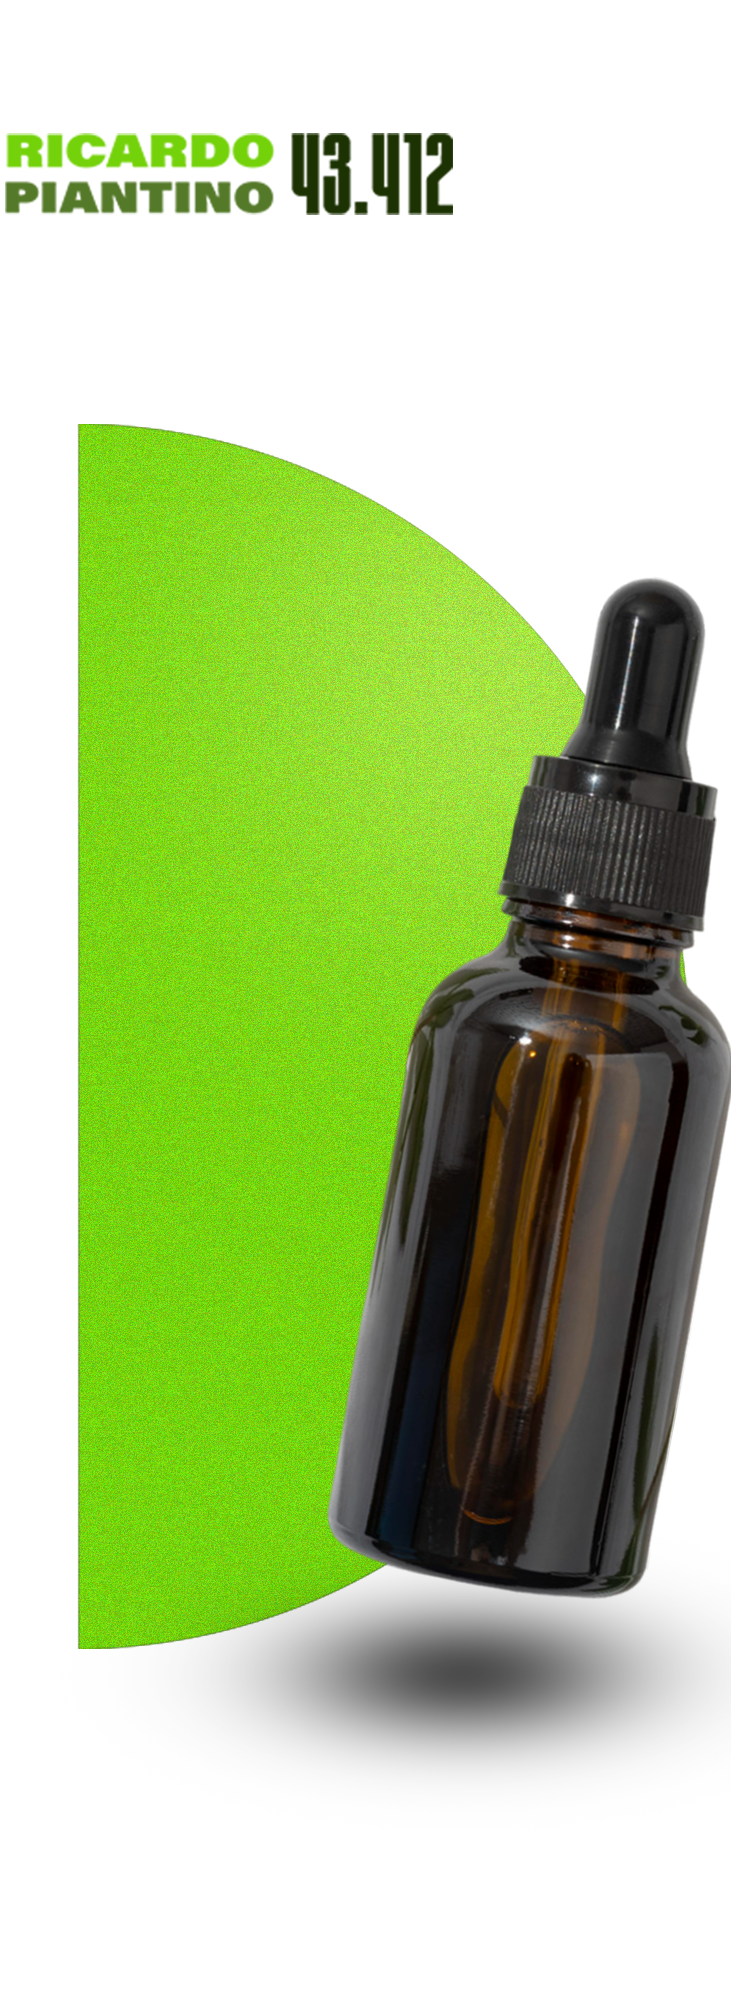
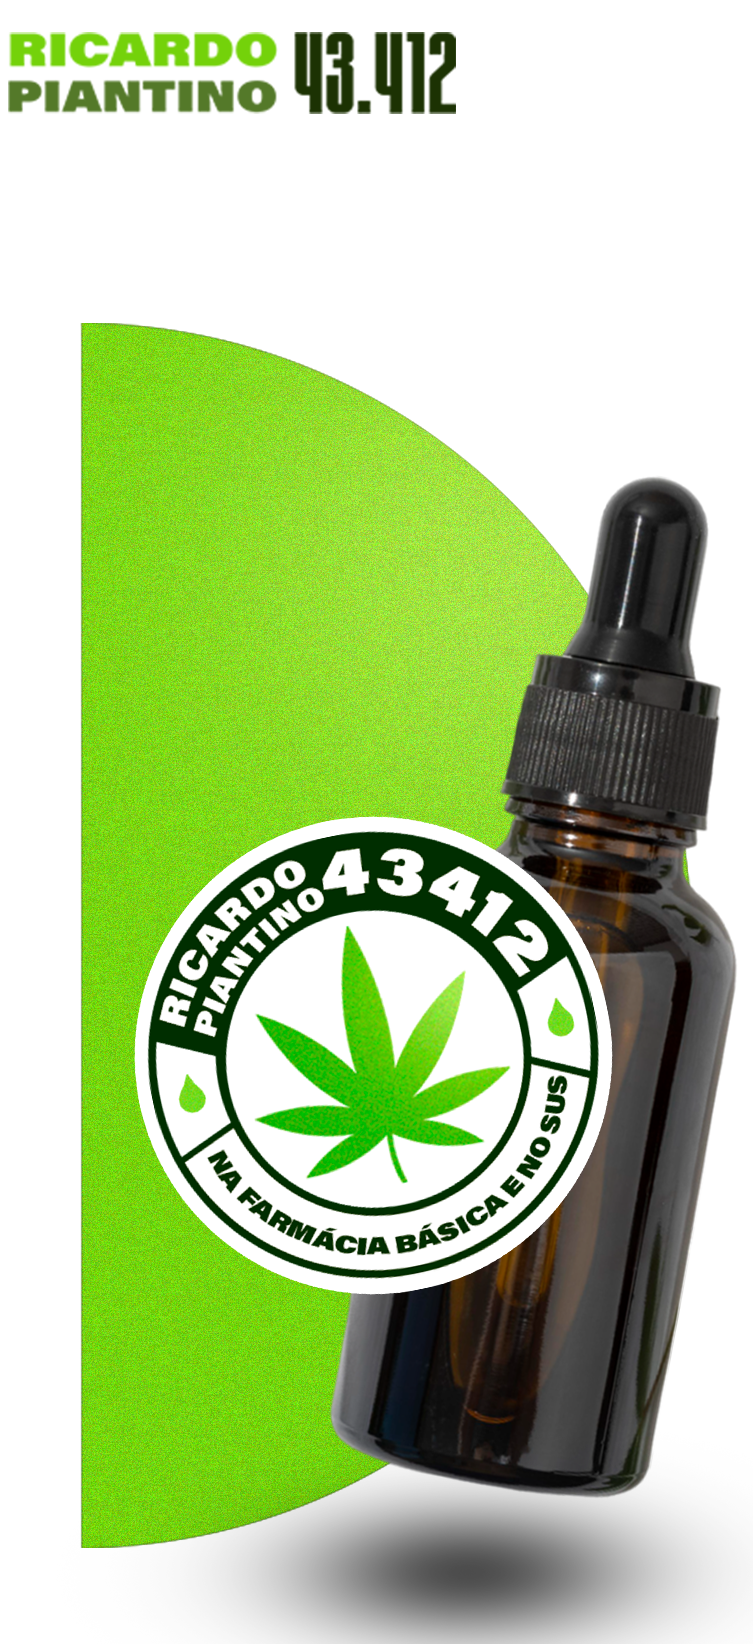
Mudando as imagens de cabeçalho

diff --git a/sites/Politicapage/index.html b/sites/Politicapage/index.html
@@ -47,10 +47,10 @@
                 <img src="./img/card01.png" alt="Foto de igreja">
                 <div class="items">
                     <div class="item">
-                        <p><strong>Todos sabem que formentei a Conferência Municipal de Cultura e que acompanhei, com atenção, o processo de impantação das Leis Aldir Blanc e Paulo Gustavo</strong></p>
+                        <p><strong>Todos sabem que fomentei a Conferência Municipal de Cultura e que acompanhei, com atenção, o processo de implantação das Leis Aldir Blanc e Paulo Gustavo</strong></p>
                     </div>
                     <div class="item">
-                        <p>Da confêrencia elegemos a delegada que nos representou em nível federal e pasmem:<strong>Passos não está inserida no plano nacional de Cultura.</strong> Temos chão aí.</p>
+                        <p>Da conferência elegemos a delegada que nos representou em nível federal e pasmem: <strong>Passos não está inserida no plano nacional de Cultura.</strong> Temos chão aí.</p>
                     </div>
                 </div>
             </div>
@@ -64,7 +64,7 @@
                         <p><strong>Descobri que essa classe não ganhava por insalubridade e abracei a luta.</strong></p>
                     </div>
                     <div class="item">
-                        <p>Um absurdo, né? Consegui garantir esses <strong>R$520</strong> mensais para eles. Além disso, denunciei as péssimas condições de trabalho e apoiou a categoria.</p>
+                        <p>Um absurdo, né? Consegui garantir esses <strong>R$520</strong> mensais para eles. Além disso, denunciei as péssimas condições de trabalho e apoiei a categoria.</p>
                     </div>
                     <div class="item">
                         <p><strong>Hoje, os garis de Passos sabem que têm alguém na Câmara que briga por eles.</strong></p>
@@ -78,10 +78,10 @@
                 <img src="./img/card03.png" alt="Imagem aerea igreja">
                 <div class="items">
                     <div class="item">
-                        <p><strong>Passos cresse e eu defendo as últimas ZPAs(Zonas de Proteção Ambiental) daqui.</strong></p>
+                        <p><strong>Passos cresce e eu defendo as últimas ZPAs(Zonas de Proteção Ambiental) daqui.</strong></p>
                     </div>
                     <div class="item">
-                        <p>Tô firme contra especulação imobiliária e quero mais arborização e áreas verdes, como os parques lianeares e o complexo <strong>Elzo Calixto Mattar.</strong></p>
+                        <p>Tô firme contra especulação imobiliária e quero mais arborização e áreas verdes, como os parques lineares e o complexo <strong>Elzo Calixto Mattar.</strong></p>
                     </div>
                     <div class="item">
                         <p>Natureza e bem-estar precisam estar no orçamento de Passos.<strong>Sem eles não há cidade.</strong></p>
@@ -98,7 +98,7 @@
                         <p><strong>Cannabis medicinal é revolucionária e perdemos muito sem ela. Quero ela no SUS e farmácia popular! E de graça!</strong></p>
                     </div>
                     <div class="item">
-                        <p>Ela já provou ser <strong>eficaz para tratar centenas de doenças,</strong> mas o tratamento ainda é caro. Podemos trazer parceiros para Passos paraa ofertar o óleo como é em Franca(SP)!</p>
+                        <p>Ela já provou ser <strong>eficaz para tratar centenas de doenças,</strong> mas o tratamento ainda é caro. Podemos trazer parceiros para Passos para ofertar o óleo como é em Franca(SP)!</p>
                     </div>
                 </div>
             </div>
@@ -109,10 +109,10 @@
                 <img src="./img/card05.png" alt="Urso de pelucia no fundo vermelho">
                 <div class="items">
                     <div class="item">
-                        <p><strong>Abuso sexual é uma realidade dura em Passos. Educar é proteger pois gera denúcia. Chega de omissão</strong></p>
+                        <p><strong>Abuso sexual é uma realidade dura em Passos. Educar é proteger, pois gera denúncia. Chega de omissão</strong></p>
                     </div>
                     <div class="item">
-                        <p>Quero que as escolas públicas falem abertamente sobre o tema, capacitem professores, gestores e informem os pais.<strong>Se desconfia de abuso infantil, ligue 100 e denuncie de qualquer parte do Brasil.</strong></p>
+                        <p>Quero que as escolas públicas falem abertamente sobre o tema, capacitem professores, gestores e informem os pais. <strong>Se desconfia de abuso infantil, ligue 100 e denuncie de qualquer parte do Brasil.</strong></p>
                     </div>
                 </div>
             </div>

diff --git a/sites/Politicapage/css/web.css b/sites/Politicapage/css/web.css
@@ -108,12 +108,9 @@ a{
     justify-content: center;
     align-items: center;
     color: var(--fontColor);
-    background: url('../img/showcase.png') no-repeat center center/cover;
+    background: url('../img/showcase_v.png') no-repeat center center/cover;
     /*imagen não sofre efeito do scrow*/
     background-attachment: fixed;
-    /* Overley*/
-    background-color: rgba(0, 0, 0, 0.5);
-    background-blend-mode: color;
 }
 
 /*cultura*/
